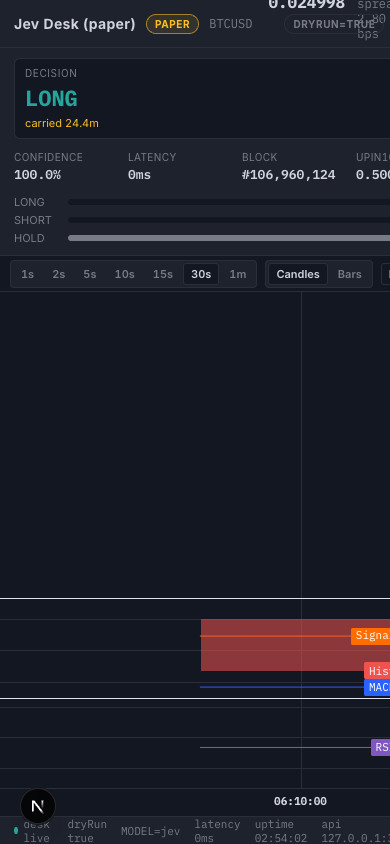
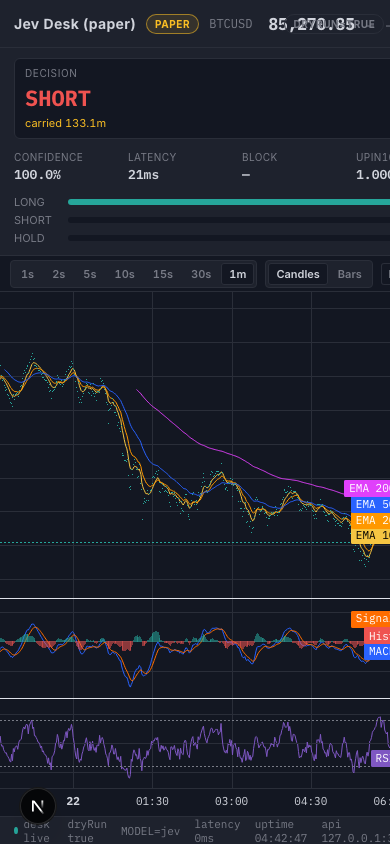
fix(desk): align decision strip to owned desk position
When desk is primary, DECISION follows desk qty (LONG/SHORT/FLAT) instead of MON view action, and unresolved symbols with no bars stay quiet dashes with no orphan probs. Refreshes Phase 3 desktop/mobile Bit9 shots + checklist.

diff --git a/web/src/components/Desk/Desk.tsx b/web/src/components/Desk/Desk.tsx
@@ -111,33 +111,101 @@ export default function Desk({
       paperTone,
     };
   })();
-  const showAction = usingDesk
-    ? deskUi?.action === "buy"
-      ? "LONG"
-      : deskUi?.action === "sell"
-        ? "SHORT"
-        : deskUi
-          ? "HOLD"
-          : "—"
-    : view.late.text === "true" && view.carriedAction
+  // Unresolved / no desk bars: quiet decision strip (no MON orphan probs).
+  const deskQuiet = usingDesk && (desk.bars.length + (desk.live ? 1 : 0)) === 0;
+  const deskQty = deskPos?.qty ?? 0;
+  // Jerry "seconds" bar: owned desk position wins over stale decision / MON bleed.
+  const showAction = !usingDesk
+    ? view.late.text === "true" && view.carriedAction
       ? view.carriedAction
-      : view.action;
-  const showTone = usingDesk
-    ? deskUi?.action === "buy"
-      ? "long"
-      : deskUi?.action === "sell"
-        ? "short"
-        : deskUi
-          ? "hold"
-          : "empty"
-    : view.late.text === "true" && view.carriedAction
+      : view.action
+    : deskQuiet
+      ? "—"
+      : deskQty > 0
+        ? "LONG"
+        : deskQty < 0
+          ? "SHORT"
+          : deskUi?.action === "buy"
+            ? "LONG"
+            : deskUi?.action === "sell"
+              ? "SHORT"
+              : deskUi
+                ? "HOLD"
+                : "—";
+  const showTone = !usingDesk
+    ? view.late.text === "true" && view.carriedAction
       ? "hold"
-      : view.actionTone;
+      : view.actionTone
+    : deskQuiet
+      ? "empty"
+      : deskQty > 0
+        ? "long"
+        : deskQty < 0
+          ? "short"
+          : deskUi?.action === "buy"
+            ? "long"
+            : deskUi?.action === "sell"
+              ? "short"
+              : deskUi
+                ? "hold"
+                : "empty";
   const carried = usingDesk
-    ? deskDec
-      ? fmtCarried(Date.now() - deskDec.t)
-      : null
+    ? deskQuiet
+      ? null
+      : deskDec
+        ? fmtCarried(Date.now() - deskDec.t)
+        : null
     : fmtCarried(view.carriedAgeMs);
+  const stripConfidence = usingDesk
+    ? deskQuiet
+      ? "—"
+      : deskDec
+        ? `${(Math.max(deskDec.p_long, deskDec.p_short, deskDec.p_flat) * 100).toFixed(1)}%`
+        : "—"
+    : view.confidence;
+  const stripLatency = usingDesk
+    ? deskQuiet
+      ? "—"
+      : deskDec
+        ? `${Math.round(deskDec.latency_ms)}ms`
+        : "—"
+    : view.latency;
+  const stripBlock = usingDesk ? "—" : view.block;
+  const stripUpIn10 = usingDesk
+    ? deskQuiet
+      ? "—"
+      : deskDec
+        ? deskDec.p_long.toFixed(3)
+        : "—"
+    : view.upIn10;
+  const stripBars = usingDesk
+    ? deskQuiet || !deskDec
+      ? [
+          { name: "LONG", width: 0, label: "—", tone: "long" as const },
+          { name: "SHORT", width: 0, label: "—", tone: "short" as const },
+          { name: "HOLD", width: 0, label: "—", tone: "hold" as const },
+        ]
+      : [
+          {
+            name: "LONG",
+            width: Math.round(deskDec.p_long * 100),
+            label: `${(deskDec.p_long * 100).toFixed(0)}%`,
+            tone: "long" as const,
+          },
+          {
+            name: "SHORT",
+            width: Math.round(deskDec.p_short * 100),
+            label: `${(deskDec.p_short * 100).toFixed(0)}%`,
+            tone: "short" as const,
+          },
+          {
+            name: "HOLD",
+            width: Math.round(deskDec.p_flat * 100),
+            label: `${(deskDec.p_flat * 100).toFixed(0)}%`,
+            tone: "hold" as const,
+          },
+        ]
+    : view.bars;
 
   async function onAdd(e: FormEvent) {
     e.preventDefault();
@@ -190,23 +258,23 @@ export default function Desk({
             <div className={styles.decisionMeta}>
               <div>
                 <span className={styles.lbl}>confidence</span>
-                <span className={styles.val}>{view.confidence}</span>
+                <span className={styles.val}>{stripConfidence}</span>
               </div>
               <div>
                 <span className={styles.lbl}>latency</span>
-                <span className={styles.val}>{view.latency}</span>
+                <span className={styles.val}>{stripLatency}</span>
               </div>
               <div>
                 <span className={styles.lbl}>block</span>
-                <span className={styles.val}>{view.block}</span>
+                <span className={styles.val}>{stripBlock}</span>
               </div>
               <div>
                 <span className={styles.lbl}>upIn10</span>
-                <span className={styles.val}>{view.upIn10}</span>
+                <span className={styles.val}>{stripUpIn10}</span>
               </div>
             </div>
             <div className={styles.probBars}>
-              {view.bars.map((b) => (
+              {stripBars.map((b) => (
                 <div key={b.name} className={styles.probRow}>
                   <span className={styles.probName}>{b.name}</span>
                   <div className={styles.probTrack}>
